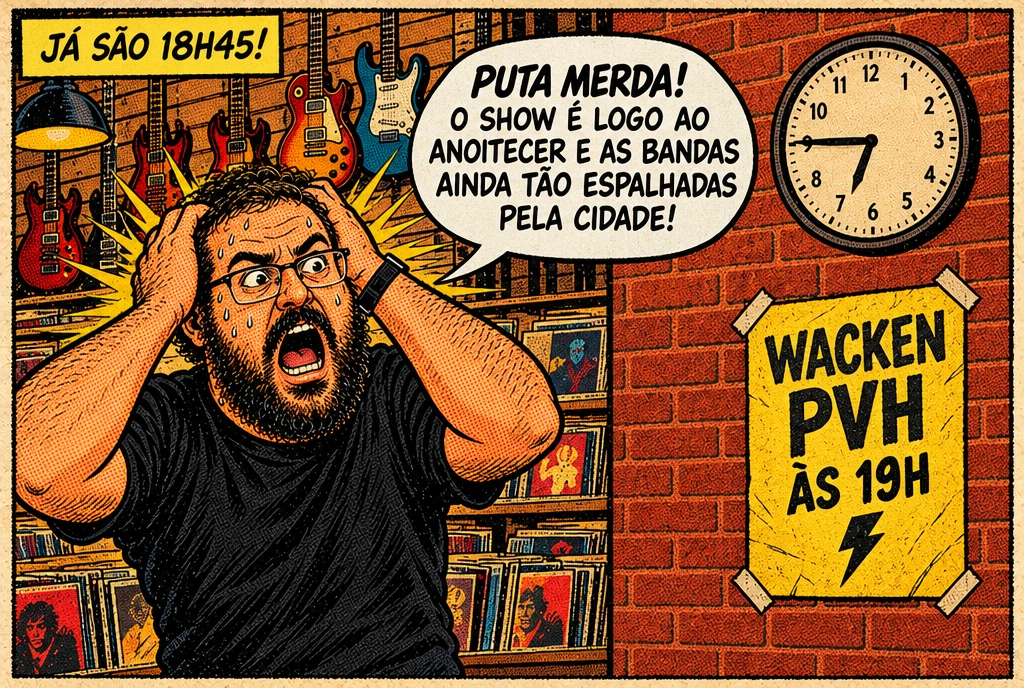
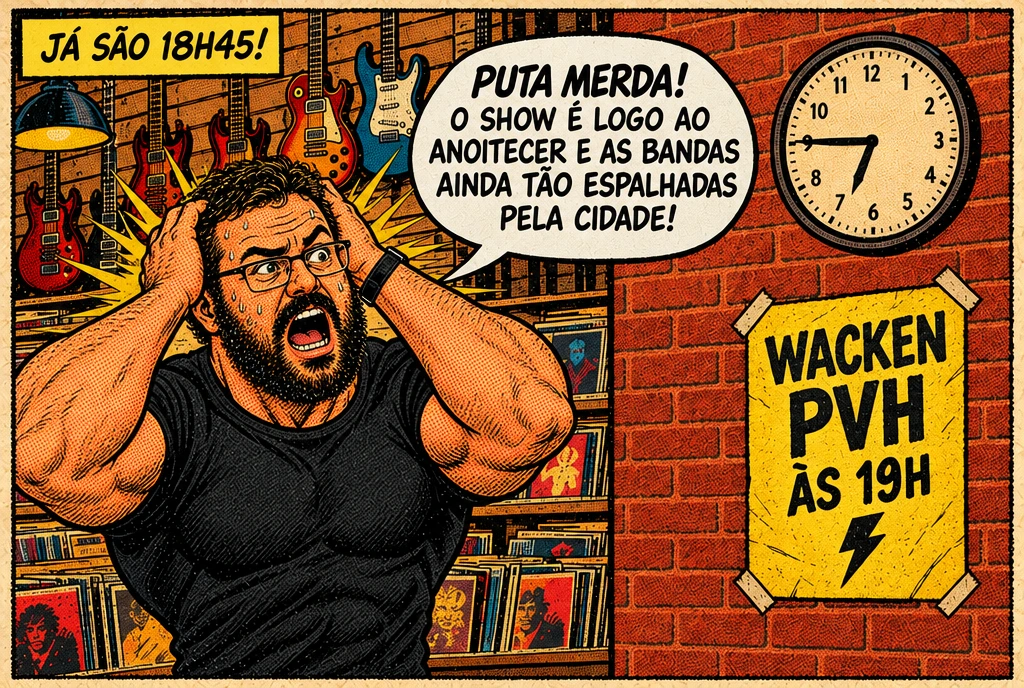
Busão do Rock: Felipe mais forte na tela de girar e nos 3 slides da HQ (cache v4)
Também: tela cheia só em toque real (sem erro no console).

diff --git a/busao-do-rock/index.html b/busao-do-rock/index.html
@@ -1668,7 +1668,10 @@ function goFullscreen() {
 // tela cheia no primeiro toque em qualquer lugar (o navegador só permite dentro de um toque/clique).
 // iPhone: o Safari não tem tela cheia para páginas; ali o jeito é 'Adicionar à Tela de Início' (manifest display: fullscreen).
 if (C.fullscreenOnTouch !== false) {
-  const fsTap = () => { if (!document.fullscreenElement && !document.webkitFullscreenElement) goFullscreen(); };
+  const fsTap = e => {
+    if (!e.isTrusted || (navigator.userActivation && !navigator.userActivation.isActive)) return; // só toque de verdade
+    if (!document.fullscreenElement && !document.webkitFullscreenElement) goFullscreen();
+  };
   ['pointerup', 'touchend', 'click'].forEach(t => addEventListener(t, fsTap, { capture: true, passive: true }));
 }
 function startFlow() {

diff --git a/busao-do-rock/sw.js b/busao-do-rock/sw.js
@@ -3,7 +3,7 @@
 // - HTML/JS/JSON: rede primeiro (um push no GitHub Pages aparece na próxima abertura), cache se estiver sem internet
 // - three.js da cdnjs (versão fixa, nunca muda): cache primeiro
 // Ao trocar CACHE, os caches antigos deste jogo são apagados (os dos outros jogos ficam).
-const PREFIX = 'busao-do-rock-v', CACHE = PREFIX + '3';
+const PREFIX = 'busao-do-rock-v', CACHE = PREFIX + '4';
 self.addEventListener('install', e => self.skipWaiting());
 self.addEventListener('activate', e => e.waitUntil(
   caches.keys().then(ks => Promise.all(ks.filter(k => k !== CACHE && k.startsWith(PREFIX)).map(k => caches.delete(k)))).then(() => self.clients.claim())

diff --git a/busao-do-rock/README.md b/busao-do-rock/README.md
@@ -50,6 +50,8 @@ na própria arte** (`assets/comic/s1..s3.webp`, Higgsfield), para não depender 
 tarde."; 2) "Já são 18h45!"; 3) "Garagem da loja." com "VRUUUM!". Para mudar um texto é preciso gerar a imagem de novo (prompts no
 `assets/manifest.json`). **"Wacken" é marca de um festival real: conferir com o jurídico antes de divulgar.**
 
+**Felipe forte (09/11):** a pedido do Arthur, o Felipe ficou bem mais forte (ombros, braços e peito de super-herói, mesmo rosto, óculos e barba). A tela de girar o celular é a **referência oficial** do personagem (job no `assets/manifest.json`); os 3 slides foram refeitos a partir dela com o mesmo texto. As versões anteriores ficaram em `_raw/` com `_v1`.
+
 **Celular em pé:** no lugar do aviso de texto, aparece o Felipe desenhado virando o celular: "Deita esse celular aí, roqueiro! Busão não
 anda em pé." (`assets/rotate.webp`, texto na arte).
 
